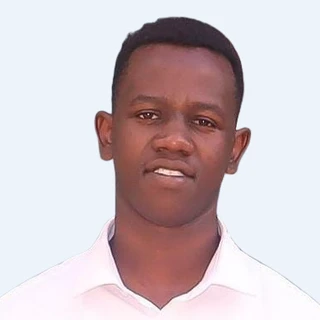
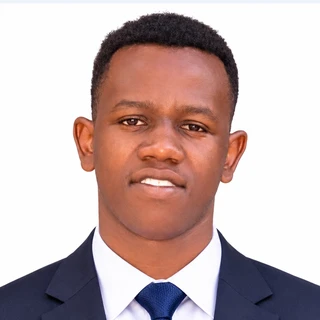
Update John's photo

diff --git a/founders.html b/founders.html
@@ -35,7 +35,7 @@
 <main id="main">
 
 <section class="page-hero"><div class="container"><span class="eyebrow">The people behind OM</span><h1>Meet our founders.</h1><p>Four founders building practical water, farm and workplace solutions — and a brand that carries beyond the job site.</p></div></section>
-<section class="section-sm" style="padding-top:0"><div class="container"><div class="grid grid-4"><article class="card founder reveal" style="--d:0.00s"><div class="avatar photo"><img src="assets/founders/john.webp?v=2" alt="John Senteu" width="160" height="160" loading="lazy"></div><span class="role">Co-founder</span><h2>John Senteu</h2><p>Managing Director</p><small>Experienced in building partnerships, with a track record of successfully delivering high-stakes projects.</small></article><article class="card founder reveal" style="--d:0.06s"><div class="avatar photo"><img src="assets/founders/dickson.webp?v=2" alt="Eng. Dickson Monyatet" width="160" height="160" loading="lazy"></div><span class="role">Co-founder</span><h2>Eng. Dickson Monyatet</h2><p>Engineer</p><small>Over 10 years in plumbing systems installation, maintenance and repair.</small></article><article class="card founder reveal" style="--d:0.12s"><div class="avatar photo"><img src="assets/founders/ian.webp?v=2" alt="Eng. Ian A. Ombui" width="160" height="160" loading="lazy"></div><span class="role">Co-founder</span><h2>Eng. Ian A. Ombui</h2><p>Engineer · Irrigation systems &amp; client consultation</p><small>Designs irrigation systems for farms and guides clients from first consultation to a working system.</small></article><article class="card founder reveal" style="--d:0.18s"><div class="avatar photo"><img src="assets/founders/isaiah.webp?v=2" alt="Isaiah Okara" width="160" height="160" loading="lazy"></div><span class="role">Co-founder</span><h2>Isaiah Okara</h2><p>Water Mechanics Technologist</p><small>New technology and modern design.</small></article></div></div></section>
+<section class="section-sm" style="padding-top:0"><div class="container"><div class="grid grid-4"><article class="card founder reveal" style="--d:0.00s"><div class="avatar photo"><img src="assets/founders/john.webp?v=3" alt="John Senteu" width="160" height="160" loading="lazy"></div><span class="role">Co-founder</span><h2>John Senteu</h2><p>Managing Director</p><small>Experienced in building partnerships, with a track record of successfully delivering high-stakes projects.</small></article><article class="card founder reveal" style="--d:0.06s"><div class="avatar photo"><img src="assets/founders/dickson.webp?v=3" alt="Eng. Dickson Monyatet" width="160" height="160" loading="lazy"></div><span class="role">Co-founder</span><h2>Eng. Dickson Monyatet</h2><p>Engineer</p><small>Over 10 years in plumbing systems installation, maintenance and repair.</small></article><article class="card founder reveal" style="--d:0.12s"><div class="avatar photo"><img src="assets/founders/ian.webp?v=3" alt="Eng. Ian A. Ombui" width="160" height="160" loading="lazy"></div><span class="role">Co-founder</span><h2>Eng. Ian A. Ombui</h2><p>Engineer · Irrigation systems &amp; client consultation</p><small>Designs irrigation systems for farms and guides clients from first consultation to a working system.</small></article><article class="card founder reveal" style="--d:0.18s"><div class="avatar photo"><img src="assets/founders/isaiah.webp?v=3" alt="Isaiah Okara" width="160" height="160" loading="lazy"></div><span class="role">Co-founder</span><h2>Isaiah Okara</h2><p>Water Mechanics Technologist</p><small>New technology and modern design.</small></article></div></div></section>
 <section class="section section-alt"><div class="container">
  <div class="section-head center reveal"><span class="eyebrow">What drives us</span><h2>Build · Flow · Thrive.</h2></div>
  <div class="grid grid-3">

diff --git a/_build/build.py b/_build/build.py
@@ -419,7 +419,7 @@ def founders():
         ("IO", "Eng. Ian A. Ombui", "assets/founders/ian.webp", "Co-founder", "Engineer · Irrigation systems &amp; client consultation", "Designs irrigation systems for farms and guides clients from first consultation to a working system."),
         ("IO", "Isaiah Okara", "assets/founders/isaiah.webp", "Co-founder", "Water Mechanics Technologist", "New technology and modern design."),
     ]
-    av = lambda a, n, ph: f'<div class="avatar photo"><img src="{ph}?v=2" alt="{n}" width="160" height="160" loading="lazy"></div>' if ph else f'<div class="avatar">{a}</div>'
+    av = lambda a, n, ph: f'<div class="avatar photo"><img src="{ph}?v=3" alt="{n}" width="160" height="160" loading="lazy"></div>' if ph else f'<div class="avatar">{a}</div>'
     cards = "".join(f'<article class="card founder reveal" style="--d:{i*.06:.2f}s">{av(a, n, ph)}<span class="role">{r}</span><h2>{n}</h2><p>{t}</p><small>{bio}</small></article>' for i, (a, n, ph, r, t, bio) in enumerate(people))
     return head("Founders | OM Ltd", "Meet the founders of OM Ltd — John Senteu, Dickson Monyatet, Ian Ombui and Isaiah Okara.", "founders") + f'''
 <section class="page-hero"><div class="container"><span class="eyebrow">The people behind OM</span><h1>Meet our founders.</h1><p>Four founders building practical water, farm and workplace solutions — and a brand that carries beyond the job site.</p></div></section>
